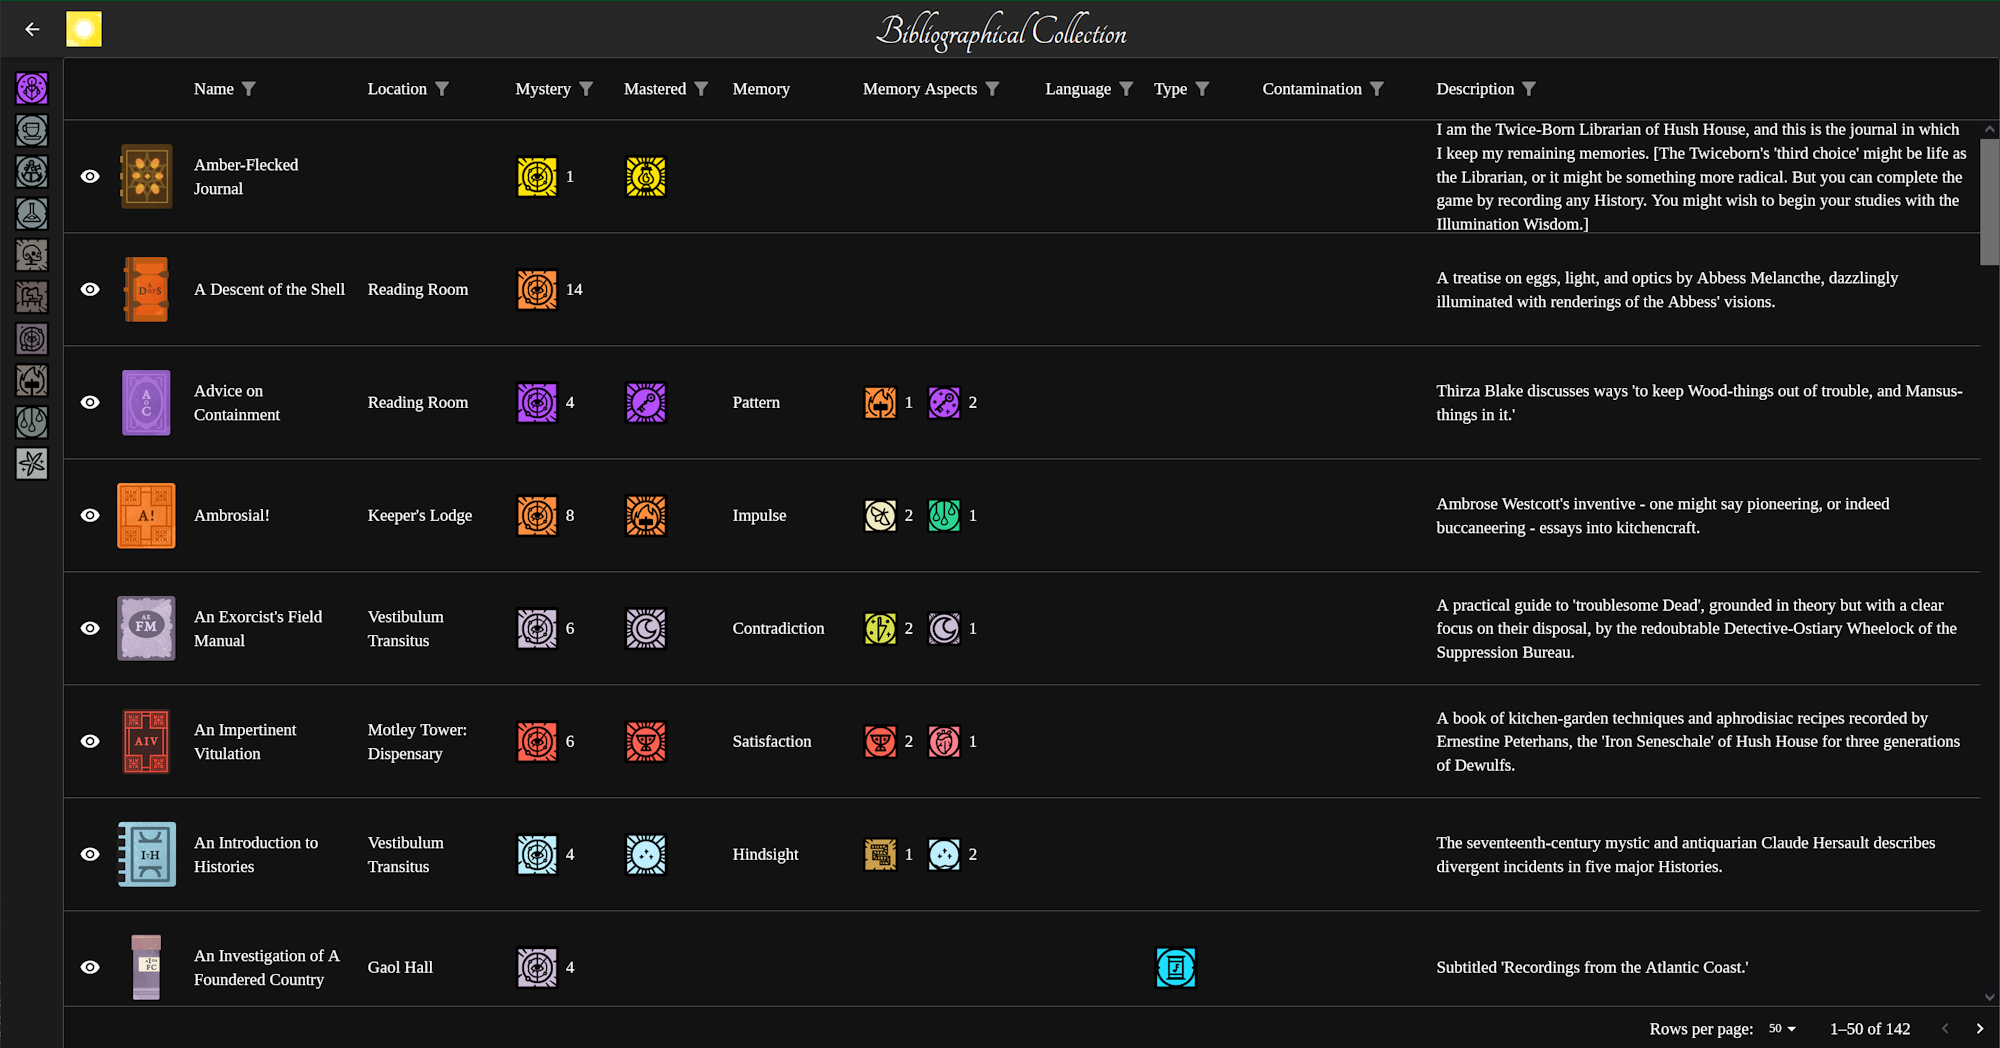
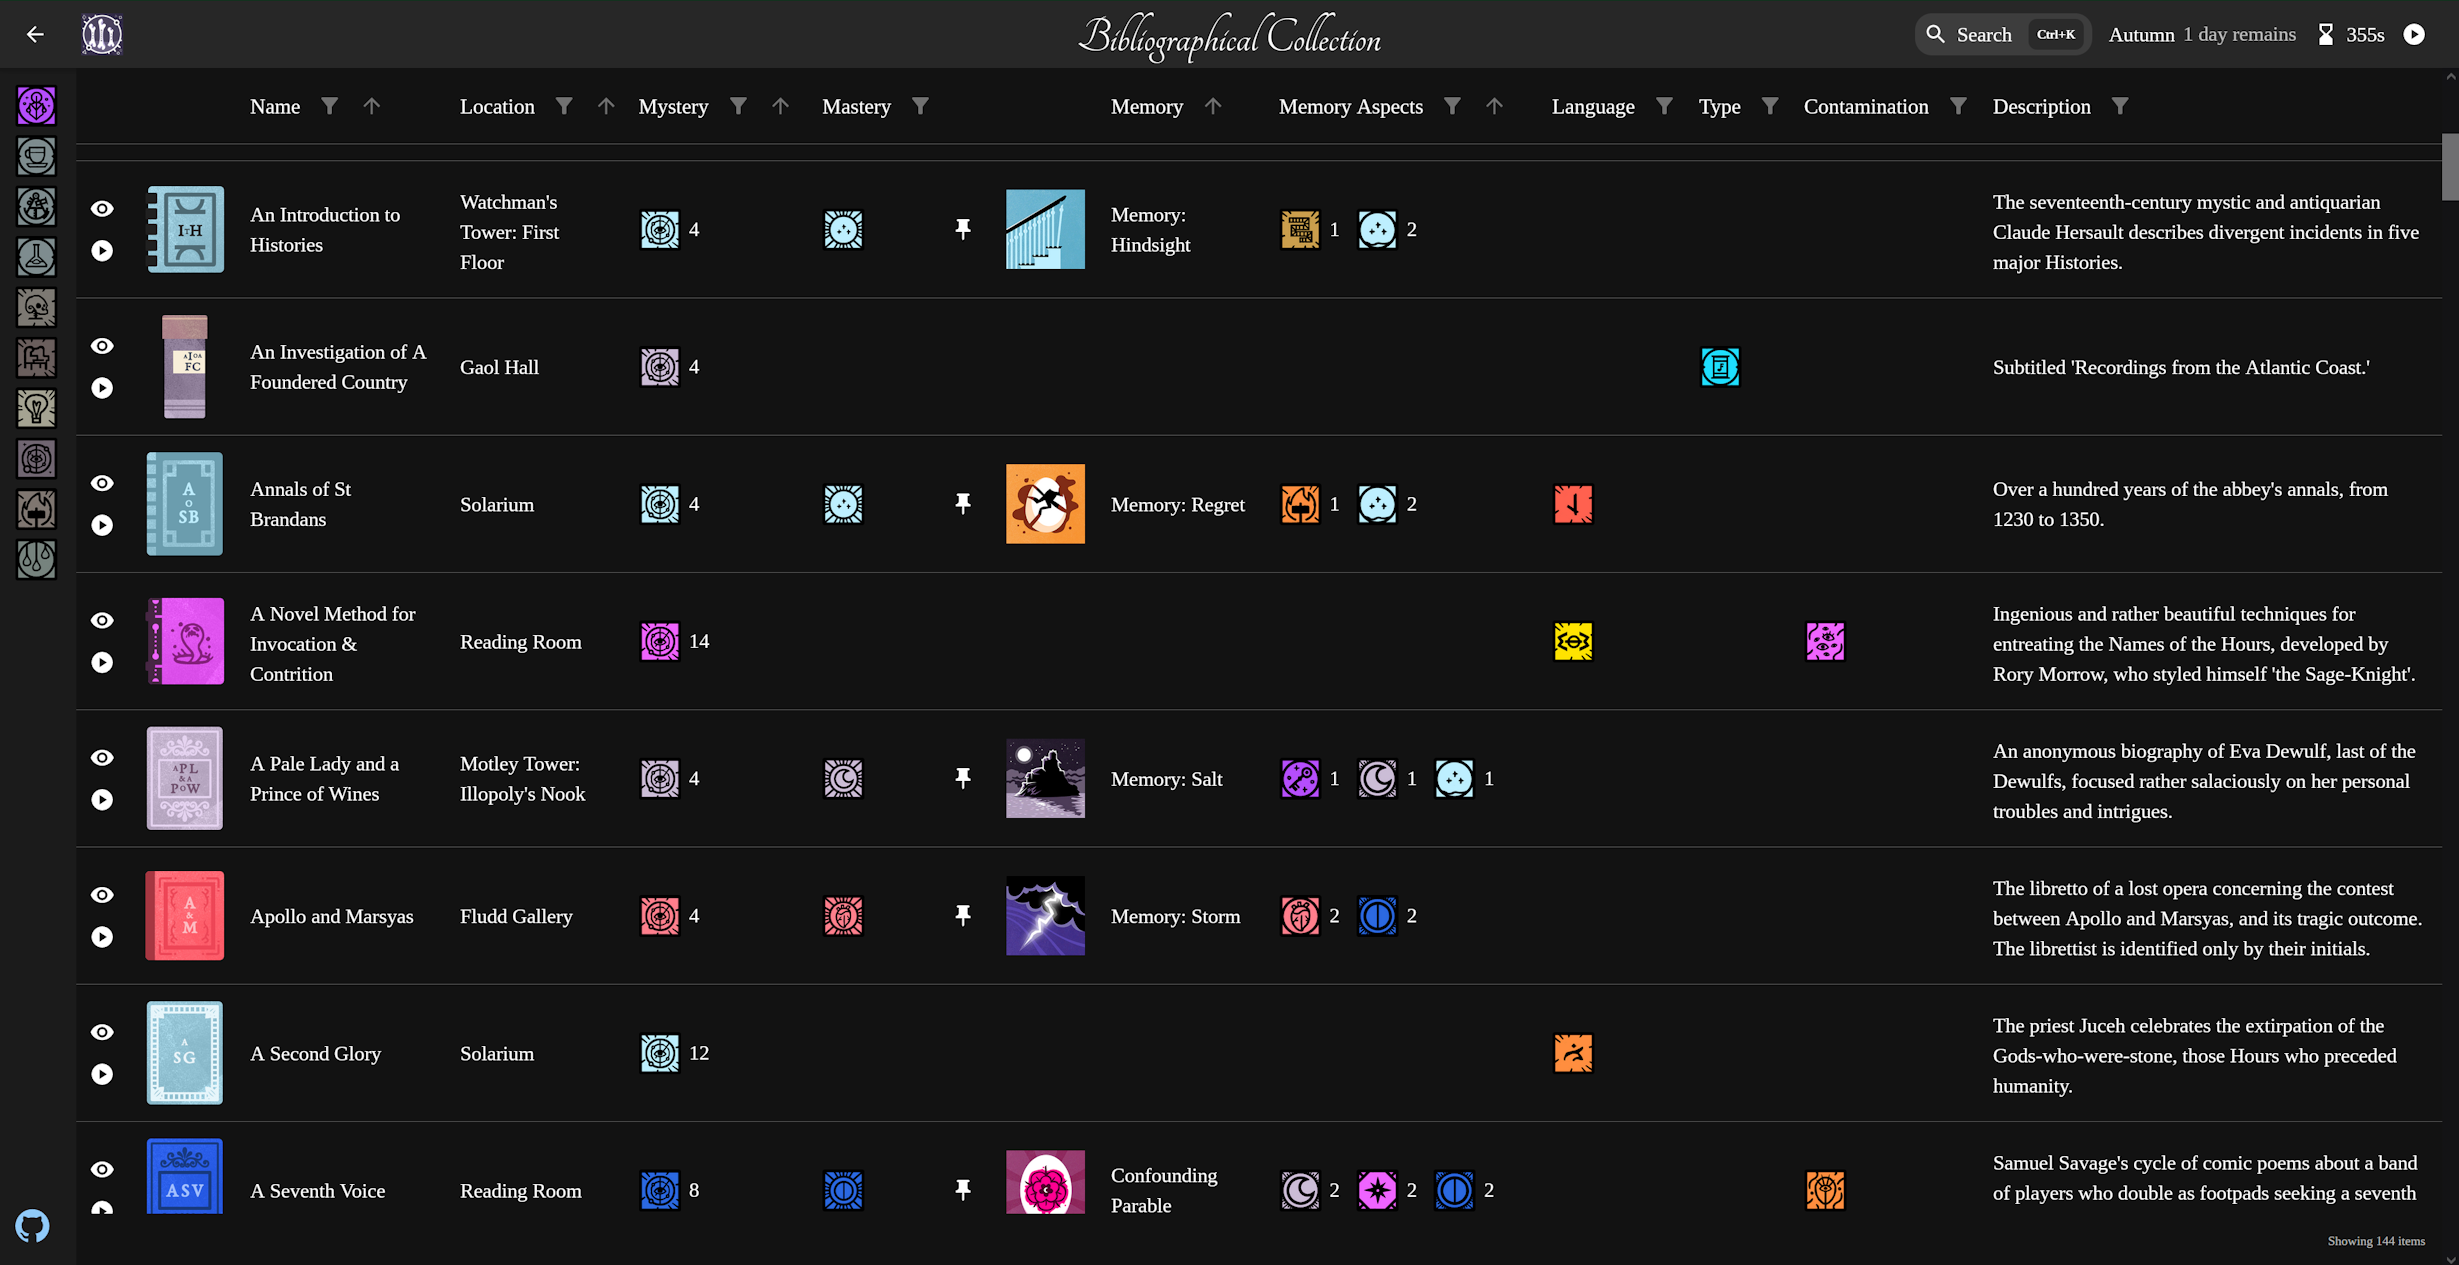
Text filter

diff --git a/src/components/ObservableDataGrid/filters/text-filter.tsx b/src/components/ObservableDataGrid/filters/text-filter.tsx
@@ -1,0 +1,71 @@
+import * as React from "react";
+import { BehaviorSubject, debounceTime } from "rxjs";
+
+import Box from "@mui/material/Box";
+import TextField from "@mui/material/TextField";
+import Button from "@mui/material/Button";
+
+import { useObservation } from "@/observables";
+
+import { FilterComponentProps } from "./types";
+
+export const TextFilter = ({
+  filterValue,
+  onChange,
+}: FilterComponentProps<string | null, string | null>) => {
+  // Theres probably a cleaner way to do this, but currently rxjs is my hammer and this looks pretty nail shaped to me.
+  const localValue$ = React.useMemo(
+    () => new BehaviorSubject<string | null>(null),
+    []
+  );
+  const localValue = useObservation(localValue$);
+  React.useEffect(() => {
+    const subscription = localValue$
+      .pipe(debounceTime(1000))
+      .subscribe((value) => {
+        if (value !== null) {
+          if (value === "") {
+            onChange(null);
+          } else {
+            onChange(value);
+          }
+          localValue$.next(null);
+        }
+      });
+
+    return () => {
+      subscription.unsubscribe();
+    };
+  }, []);
+
+  return (
+    <Box
+      sx={{
+        display: "flex",
+        flexDirection: "column",
+        height: "100%",
+      }}
+    >
+      <Box
+        sx={{
+          pt: 1,
+          px: 1,
+          display: "flex",
+          flexDirection: "row",
+          width: "100%",
+        }}
+      >
+        <Button size="small" onClick={() => onChange(null)}>
+          Clear
+        </Button>
+      </Box>
+      <TextField
+        sx={{ m: 1 }}
+        autoFocus
+        label="Search"
+        value={localValue}
+        onChange={(e) => localValue$.next(e.target.value)}
+      />
+    </Box>
+  );
+};

diff --git a/src/pages/BookCatalogPage/BooksCatalogPage.tsx b/src/pages/BookCatalogPage/BooksCatalogPage.tsx
@@ -54,7 +54,9 @@ const BookCatalogPage = () => {
       }),
       columnHelper.aspectsList("mastery", (s) => s.startsWith("mastery."), {
         header: "Mastery",
-        size: 175,
+        size: 125,
+        showLevel: false,
+        enableSorting: false,
       }),
       columnHelper.display({
         id: "memory-commands",
@@ -88,31 +90,34 @@ const BookCatalogPage = () => {
       columnHelper.observe("memoryLabel$", {
         id: "memory",
         header: "Memory",
-        size: 200,
+        size: 160,
         cell: TextWrapCell,
       }),
       columnHelper.aspectsList("memory-aspects", powerAspects, {
         header: "Memory Aspects",
-        size: 275,
+        size: 260,
         aspectsSource: (model) => model.memoryAspects$,
       }),
       columnHelper.aspectsList("language", (s) => s.startsWith("w."), {
         header: "Language",
-        size: 175,
+        size: 140,
         showLevel: false,
+        enableSorting: false,
       }),
       columnHelper.aspectsList("type", ["film", "record.phonograph"], {
         header: "Type",
-        size: 150,
+        size: 100,
         showLevel: false,
+        enableSorting: false,
       }),
       columnHelper.aspectsList(
         "contamination",
         (s) => s.startsWith("contamination."),
         {
           header: "Contamination",
-          size: 250,
+          size: 180,
           showLevel: false,
+          enableSorting: false,
         }
       ),
       columnHelper.description(),

diff --git a/src/components/GameTypography.tsx b/src/components/GameTypography.tsx
@@ -5,27 +5,33 @@ import AspectIcon from "./AspectIcon";
 
 export type GameTypographyProps = TypographyProps;
 
-const GameTypography = ({ children, ...props }: GameTypographyProps) => {
-  const parts = React.useMemo(
-    () =>
-      React.Children.toArray(children).flatMap((child) => {
-        if (typeof child === "string") {
-          return parseSprites(child, (name) => (
-            <AspectIcon
-              size={30}
-              aspectId={name}
-              sx={{ display: "inline-block", verticalAlign: "middle" }}
-            />
-          ));
-        }
+const GameTypography = React.forwardRef<HTMLSpanElement, GameTypographyProps>(
+  ({ children, ...props }, ref) => {
+    const parts = React.useMemo(
+      () =>
+        React.Children.toArray(children).flatMap((child) => {
+          if (typeof child === "string") {
+            return parseSprites(child, (name) => (
+              <AspectIcon
+                size={30}
+                aspectId={name}
+                sx={{ display: "inline-block", verticalAlign: "middle" }}
+              />
+            ));
+          }
 
-        return child;
-      }),
-    [children]
-  );
+          return child;
+        }),
+      [children]
+    );
 
-  return <Typography {...props}>{parts}</Typography>;
-};
+    return (
+      <Typography ref={ref} {...props}>
+        {parts}
+      </Typography>
+    );
+  }
+);
 
 export default GameTypography;
 

diff --git a/src/components/ObservableDataGrid/columns/element-stack-column-helper.tsx b/src/components/ObservableDataGrid/columns/element-stack-column-helper.tsx
@@ -9,8 +9,12 @@ import { aspectsMagnitude } from "@/aspects";
 import { ElementStackModel } from "@/services/sh-game";
 import { useUnlockedLocationLabels } from "@/services/sh-game/hooks";
 
-import { MultiselectOptionsFilter } from "../filters/multiselect-filter";
-import { AspectsFilter, aspectsFilter } from "../filters/aspects-filter";
+import {
+  MultiselectOptionsFilter,
+  AspectsFilter,
+  aspectsFilter,
+  TextFilter,
+} from "../filters";
 
 import { AspectsListCell, TextWrapCell, ElementIconCell } from "../cells";
 
@@ -28,6 +32,9 @@ export function createElementStackColumnHelper<
         header: "Name",
         cell: TextWrapCell,
         filterFn: "includesString",
+        meta: {
+          filterComponent: TextFilter,
+        },
         ...def,
       }),
     elementIcon: () =>
@@ -92,6 +99,11 @@ export function createElementStackColumnHelper<
       columnHelper.observe("description$" as any, {
         size: Number.MAX_SAFE_INTEGER,
         header: "Description",
+        enableSorting: false,
+        filterFn: "includesString",
+        meta: {
+          filterComponent: TextFilter,
+        },
         cell: TextWrapCell,
       }),
     location: () =>

diff --git a/src/components/ObservableDataGrid/columns/situation-column-helper.tsx b/src/components/ObservableDataGrid/columns/situation-column-helper.tsx
@@ -9,8 +9,12 @@ import { aspectsMagnitude } from "@/aspects";
 import { SituationModel } from "@/services/sh-game";
 import { useUnlockedLocationLabels } from "@/services/sh-game/hooks";
 
-import { AspectsFilter, aspectsFilter } from "../filters/aspects-filter";
-import { MultiselectOptionsFilter } from "../filters/multiselect-filter";
+import {
+  MultiselectOptionsFilter,
+  AspectsFilter,
+  aspectsFilter,
+  TextFilter,
+} from "../filters";
 
 import { AspectsListCell, TextWrapCell } from "../cells";
 
@@ -28,6 +32,9 @@ export function createSituationColumnHelper<
         header: "Name",
         cell: TextWrapCell,
         filterFn: "includesString",
+        meta: {
+          filterComponent: TextFilter,
+        },
         ...def,
       }),
     aspectsList: (
@@ -84,6 +91,11 @@ export function createSituationColumnHelper<
       columnHelper.observe("description$" as any, {
         size: Number.MAX_SAFE_INTEGER,
         header: "Description",
+        enableSorting: false,
+        filterFn: "includesString",
+        meta: {
+          filterComponent: TextFilter,
+        },
         cell: TextWrapCell,
       }),
     location: () =>

diff --git a/src/services/sh-game/orchestration/RecipeOrchestration.ts b/src/services/sh-game/orchestration/RecipeOrchestration.ts
@@ -3,6 +3,7 @@ import {
   Observable,
   asapScheduler,
   combineLatest,
+  debounceTime,
   distinctUntilChanged,
   firstValueFrom,
   map,
@@ -10,7 +11,6 @@ import {
   of as observableOf,
   observeOn,
   shareReplay,
-  throttleTime,
 } from "rxjs";
 import {
   Aspects,
@@ -109,11 +109,9 @@ export class RecipeOrchestration
       this._situation$.next(situation);
     });
 
-    this.slots$
-      .pipe(throttleTime(5, asapScheduler, { leading: false, trailing: true }))
-      .subscribe((slots) => {
-        this._pickDefaults(Object.values(slots));
-      });
+    this.slots$.pipe(debounceTime(5)).subscribe((slots) => {
+      this._pickDefaults(Object.values(slots));
+    });
   }
 
   private _executionPlan$: Observable<ExecutionPlan | null> | null = null;

diff --git a/src/services/search/SearchService.ts b/src/services/search/SearchService.ts
@@ -2,12 +2,11 @@ import { Container, inject, injectable, singleton } from "microinject";
 import {
   BehaviorSubject,
   Observable,
-  asyncScheduler,
   combineLatest,
   filter,
   map,
   shareReplay,
-  throttleTime,
+  debounceTime,
 } from "rxjs";
 
 import { isNotNull } from "@/utils";
@@ -25,7 +24,7 @@ export class SearchService {
   );
 
   private readonly _searchQueryResponse$ = this._searchQueryInput$.pipe(
-    throttleTime(1000, asyncScheduler, { leading: false, trailing: true })
+    debounceTime(1000)
   );
 
   private readonly _searchQueryResponseNotEmpty$ =

diff --git a/src/pages/CraftingCatalogPage/CraftingCatalogPage.tsx b/src/pages/CraftingCatalogPage/CraftingCatalogPage.tsx
@@ -4,6 +4,8 @@ import { pickBy } from "lodash";
 
 import Box from "@mui/material/Box";
 
+import { aspectsMagnitude } from "@/aspects";
+
 import { useQueryObjectState } from "@/hooks/use-queryobject";
 
 import PageContainer from "@/components/PageContainer";
@@ -20,7 +22,6 @@ import ObservableDataGrid, {
 } from "@/components/ObservableDataGrid";
 
 import { CraftableModel, useCraftables } from "./crafting-data-source";
-import { aspectsMagnitude } from "@/aspects";
 
 const columnHelper = createObservableColumnHelper<CraftableModel>();
 

diff --git a/src/components/ObservableDataGrid/cells/TextWrapCell.tsx b/src/components/ObservableDataGrid/cells/TextWrapCell.tsx
@@ -51,6 +51,7 @@ function TextWrapCell<T extends RowData>(props: CellContext<T, string | null>) {
           : undefined,
       }}
     >
+      {/* TODO: Pop open on mouse position.  This is popping on the bottom of the typography, which can be significantly offset due to our masking.*/}
       <Tooltip open={open} title={value}>
         <GameTypography
           ref={setTextRef}

diff --git a/src/components/ObservableDataGrid/filters/aspects-filter.tsx b/src/components/ObservableDataGrid/filters/aspects-filter.tsx
@@ -131,7 +131,7 @@ export const AspectsFilter = ({
           width: "100%",
         }}
       >
-        <Button size="small" onClick={() => onChange({ $mode: "any" })}>
+        <Button size="small" onClick={() => onChange(null)}>
           Clear
         </Button>
         <Button

diff --git a/src/components/ObservableDataGrid/filters/multiselect-filter.tsx b/src/components/ObservableDataGrid/filters/multiselect-filter.tsx
@@ -43,7 +43,7 @@ export function MultiselectOptionsFilter<T>({
           width: "100%",
         }}
       >
-        <Button size="small" onClick={() => onChange([])}>
+        <Button size="small" onClick={() => onChange(null)}>
           Clear
         </Button>
         <Button

diff --git a/src/components/ObservableDataGrid/filters/index.ts b/src/components/ObservableDataGrid/filters/index.ts
@@ -1,3 +1,4 @@
 export * from "./aspects-filter";
 export * from "./multiselect-filter";
+export * from "./text-filter";
 export * from "./types";
